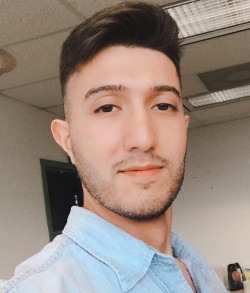
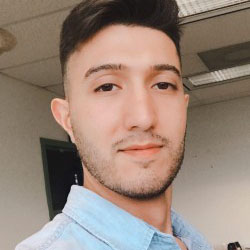
Iteration people list and landing pages

diff --git a/_layouts/profile.html b/_layouts/profile.html
@@ -3,5 +3,6 @@ layout: default
 ---
 <div class="container content page">
   <h3 class="page-title">{{ page.name }}</h3>
+  <img src="{{site.baseurl}}/images/people/{{page.avatar}}" alt="{{page.name}} photo" width="300" data-action="zoom" style="float: right;" />
   {{ content }}
 </div>

diff --git a/_people/ioannis_par.md b/_people/ioannis_par.md
@@ -8,44 +8,50 @@ title: "PhD Candidate"
 permalink: /people/iparask
 ---
 
-<img width="300" src="{{site.baseurl}}/images/people/{{page.avatar}}" data-action="zoom">
-
 ### Contact
 
 <a href="https://github.com/iparask"><i class="fa fa-github"></i>Ioannis Paraskevakos</a><br>
 <i class="fa fa-envelope-o"></i>  `i.paraskev@rutgers.edu`<br>
 <i class="fa fa-building"></i> CoRE 707 <br>
 <i class="fa fa-bar-chart"></i> [google scholar](https://scholar.google.com/citations?user=vse6uzMAAAAJ&hl=en) <br>
-
+<hr>
 
 ### Bio
 
-I am a fifth year PhD student at Rutgers University and a member at RADICAL Lab.
+I am a fifth year PhD student at Rutgers University and a member at RADICAL
+Lab.
 
-Before my PhD studies, I acquired an engineering diploma (5-year studies) in 
-[Computer Engineering and Informatics](https://www.ceid.upatras.gr/en), and a 
-Master of Science in Integrated Hardware and Software Systems. I also worked for 
-three and a half years as an IC Design Engineer at Analogies SA, an IP Semiconductor 
-Company in Greece.
+Before my PhD studies, I acquired an engineering diploma (5-year studies) in
+[Computer Engineering and Informatics](https://www.ceid.upatras.gr/en), and a
+Master of Science in Integrated Hardware and Software Systems. I also worked
+for three and a half years as an IC Design Engineer at Analogies SA, an IP
+Semiconductor Company in Greece.
 
-My research focuses on providing data-intensive capabilities on HPC for analyzing
-data from Scientific simulations, through abstraction, architectures and middleware. 
-My research interests include High Performance Computing, Task Parallel Applications and Architectures,
-Distributed System Communication Protocols, and Distributed Data Abstractions.
+My research focuses on providing data-intensive capabilities on HPC for
+analyzing data from Scientific simulations, through abstraction, architectures
+and middleware. My research interests include High Performance Computing, Task
+Parallel Applications and Architectures, Distributed System Communication
+Protocols, and Distributed Data Abstractions.
 
-Currently, I am involved in two projects, [MIddleware for Data-Intensive Analytics and Science (MIDAS)](/projects/midas) and [Imagery Cyberinfrastructure and Extensible Building-Blocks to Enhance Research in the Geosciences (ICEBERG)](/projects/iceberg).
-In addition, I regularly  contribute to several [RADICAL-Cybertools projects](https://github.com/radical-cybertools/).
+Currently, I am involved in two projects, [MIddleware for Data-Intensive
+Analytics and Science (MIDAS)](/projects/midas) and [Imagery
+Cyberinfrastructure and Extensible Building-Blocks to Enhance Research in the
+Geosciences (ICEBERG)](/projects/iceberg). In addition, I regularly
+contribute to several [RADICAL-Cybertools
+projects](https://github.com/radical-cybertools/).
 
 ### Publication
 Some of my recent publications include:
 
-- [Ioannis Paraskevakos,Andre Luckow, Mahzad, Khoshlessan, George Chantzialexiou, Thomas E. Cheatham,
-Oliver Beckstein, Geoffrey C. Fox, Shantenu Jha, “Task-parallel Analysis of Molecular Dynamics Trajectories”,
-47th International Conference on Parallel Processing, 2018](/publications/paraskevakos2018task)
-- [Andre Luckow, Ioannis Paraskevakos, George Chantzialexiou, Shantenu Jha, “Hadoop on HPC: Integrating
-Hadoop and Pilot-based Dynamic Resource Management”, Workshop on High-Performance Big
-Data Computing, IPDPS 2016](/publications/luckow2016hadoop)
-- [Mahzad Khoshlessan, Ioannis Paraskevakos, Shantenu Jha, Oliver Beckstein, “Parallel Analysis in
-MDAnalysis using the Dask Parallel Computing Library”, SciPy Proceedings 2017](/publications/mahzad2017parallel)
-
-<hr>
+- [Ioannis Paraskevakos,Andre Luckow, Mahzad, Khoshlessan, George
+  Chantzialexiou, Thomas E. Cheatham, Oliver Beckstein, Geoffrey C. Fox,
+  Shantenu Jha, “Task-parallel Analysis of Molecular Dynamics Trajectories”,
+  47th International Conference on Parallel Processing,
+  2018](/publications/paraskevakos2018task)
+- [Andre Luckow, Ioannis Paraskevakos, George Chantzialexiou, Shantenu Jha,
+  “Hadoop on HPC: Integrating Hadoop and Pilot-based Dynamic Resource
+  Management”, Workshop on High-Performance Big Data Computing, IPDPS
+  2016](/publications/luckow2016hadoop)
+- [Mahzad Khoshlessan, Ioannis Paraskevakos, Shantenu Jha, Oliver Beckstein,
+  “Parallel Analysis in MDAnalysis using the Dask Parallel Computing Library”,
+  SciPy Proceedings 2017](/publications/mahzad2017parallel)

diff --git a/people.md b/people.md
@@ -3,7 +3,7 @@ title: People
 permalink: /people/
 ---
 
-{% assign people_sorted = site.people | sort: 'joined' %}
+{% assign people_sorted = site.people|sort: 'joined' %}
 {% assign people_array = "pi|researcher|phd|ms|undergrad|visiting" | split: "|" %}
 
 
@@ -31,22 +31,22 @@ permalink: /people/
 <h3>Alumni</h3>
 <dl style="font-size:0.7rem;">
 <li>Ming Tai Ha</li>
-<li>Ole Weidner (LEGO, Denmark)</li>
+<li>Ole Weidner</li>
 <li>Franklin Bettencourt</li>
 <li>Alessio Angius</li>
 <li>Nivetha Balasamy</li>
 <li>Antons Treikalis</li>
 <li>Nikhil Shenoy</li>
-<li>Suvigya Tripathi (Intel)</li>
-<li>Dinesh Ganapathi (Avaya)</li>
+<li>Suvigya Tripathi</li>
+<li>Dinesh Ganapathi</li>
 <li>Vishal Shah</li>
-<li>Anjani Bhargavi (Neuroscience, USC)</li>
-<li>Abhinav Thota (Indiana University Research Technology Division)</li>
-<li>Pradeep Mantha (Berkeley Labs, now Salesforce)</li>
-<li>Sharath Maddineni (Google)</li>
+<li>Anjani Bhargavi</li>
+<li>Abhinav Thota</li>
+<li>Pradeep Mantha</li>
+<li>Sharath Maddineni</li>
 <li>Chris Miceli</li>
 <li>Michael Miceli</li>
-<li>Hartmut Kaiser (Senior Research Scientist at Louisiana State University)</li>
+<li>Hartmut Kaiser)</li>
 <li>Ashley Zebrowski</li>
-<li>Aikaterina Stamou (nowaPhD student in Zurich, after a brief stint in Industry)</li>
+<li>Aikaterina Stamou</li>
 </dl>

diff --git a/_people/andre_luckow.md b/_people/andre_luckow.md
@@ -8,8 +8,6 @@ title: "Researcher"
 permalink: /people/andre_luckow
 ---
 
-<img width="300" src="{{site.baseurl}}/images/people/{{page.avatar}}" data-action="zoom">
-
 ### Bio
 
 Andre Luckow is a researcher at Rutgers University, Clemson University and Ludwig Maximilian University Munich. His work focuses on interdisciplinary research and applications at the intersection of data infrastructure, data science, and machine learning for science and industry application. He is particularly interested in high performance and distributed computing focusing on system-level challenges related to data-intensive and machine learning applications, streaming, edge and cloud computing. He holds a PhD in the field of distributed computing from the University of Potsdam, Germany.

diff --git a/_people/vivek_bala.md b/_people/vivek_bala.md
@@ -8,14 +8,13 @@ title: "PhD Candidate"
 permalink: /people/vivekb
 ---
 
-<img width="300" src="{{site.baseurl}}/images/people/{{page.avatar}}" data-action="zoom">
-
 ### Contact
 
 <a href="https://github.com/vivek-bala"><i class="fa fa-github"></i> Vivek Balasubramanian</a><br>
 <a href=""><i class="fa fa-linkedin"></i> [Linkedin](https://www.linkedin.com/in/vivekanandan-balasubramanian-284a1663/) <br>
 <i class="fa fa-envelope-o"></i>  `vivek.balasubramanian@rutgers.edu`<br>
 <i class="fa fa-bar-chart"></i> [Google Scholar](https://scholar.google.com/citations?user=FWkMEzQAAAAJ&hl=en) <br>
+<hr>
 
 ### Bio
 

diff --git a/_people/jumana_dakka.md b/_people/jumana_dakka.md
@@ -8,13 +8,11 @@ title: "PhD Student"
 permalink: /people/jdakka
 ---
 
-<img width="300" src="{{site.baseurl}}/images/people/{{page.avatar}}" data-action="zoom">
-
 ### Contact
 
- <i class="fa fa-envelope-o"></i> `jumana.dakka@rutgers.edu`<br>
- <i class="fa fa-building"></i> CoRE 707 <br>
- <hr>
+<i class="fa fa-envelope-o"></i> `jumana.dakka@rutgers.edu`<br>
+<i class="fa fa-building"></i> CoRE 707 <br>
+<hr>
 
 ### Bio
  

diff --git a/_people/willcheng.md b/_people/willcheng.md
@@ -8,6 +8,6 @@ title: "Undergraduate Research Assistant"
 permalink: /people/willcheng
 ---
 
-<img width="300" src="{{site.baseurl}}/images/people/{{page.avatar}}" data-action="zoom">
+### Bio
 
 William Cheng is a third year undergraduate student (2019) . He is currently pursuing his degree at Rutgers University (New Brunswick) in Computer Science, Physics, and a minor in Math, and he joined the RADICAL team in 2017.

diff --git a/_people/aymen-alsaadi.md b/_people/aymen-alsaadi.md
@@ -8,6 +8,6 @@ permalink: /people/aymen-alsaadi
 title: "Master Student"
 ---
 
-<img width="300" src="{{site.baseurl}}/images/people/{{page.avatar}}" data-action="zoom">
+### Bio
 
 Aymen Alsaadi is a Second-year master student (May 2019). He is currently pursuing his degree at Rutgers University (New Brunswick) in Electrical and Computer Engineering (ECE). Aymen joined the RADICAL team in 2018.

diff --git a/_people/georgios_chantz.md b/_people/georgios_chantz.md
@@ -8,7 +8,7 @@ permalink: /people/georgeha
 title: "Master Student"
 ---
 
-<img width="300" src="{{site.baseurl}}/images/people/{{page.avatar}}" data-action="zoom">
+### Bio
 
 I am currently pursuing my PhD at RADICAL Lab with Professor Shantenu Jha as my advisor. Prior to joining Rutgers, I was an undergraduate student in Greece at National Technical University of Athens.
 

diff --git a/_people/andre_merzky.md b/_people/andre_merzky.md
@@ -8,6 +8,8 @@ permalink: /people/andre_merzky
 title: "Senior Research Programmer"
 ---
 
+### Bio
+
 Andre Merzky received his diploma in Physics in 1998 at the Humboldt University
 in Berlin. He has worked since on Grid-related topics concerning data
 management, visualization and distributed computing.  Although located in far

diff --git a/_people/matteo_turilli.md b/_people/matteo_turilli.md
@@ -2,13 +2,11 @@
 name: "Matteo Turilli"
 collection: people
 avatar: matteo.jpg
-joined: 2007
-position: researcher
+joined: 20012
+position: pi
 title: "Assistant Research Professor"
 permalink: /people/mturilli
 ---
-
-<img width="300" src="{{site.baseurl}}/images/people/{{page.avatar}}" data-action="zoom">
 
 ### Contact
 

diff --git a/_people/shantenu_jha.md b/_people/shantenu_jha.md
@@ -8,8 +8,6 @@ permalink: /people/shantenu-jha
 redirect_from: "/shantenu.html"
 ---
 
-<img width="300" src="{{site.baseurl}}/images/people/{{page.avatar}}" data-action="zoom">
-
 ### Contact
 
 <i class="fa fa-envelope-o"></i> `shantenu.jha@rutgers.edu`<br>
